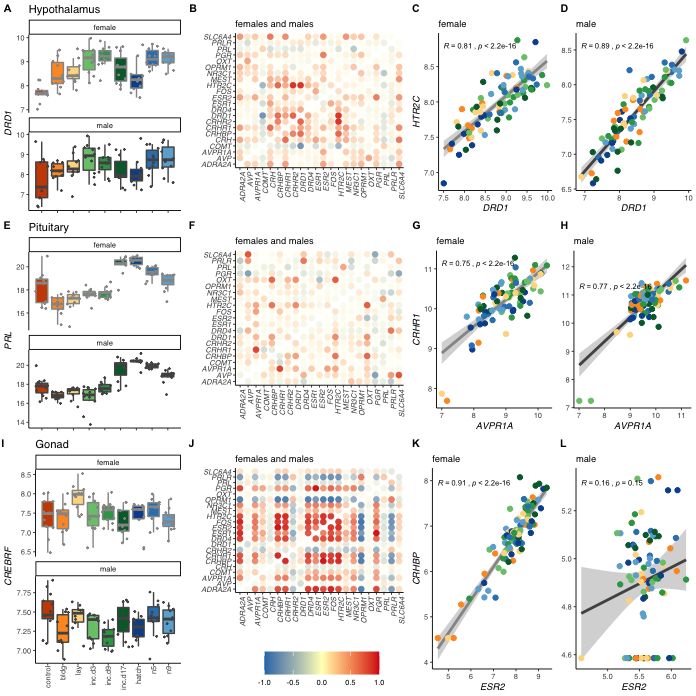
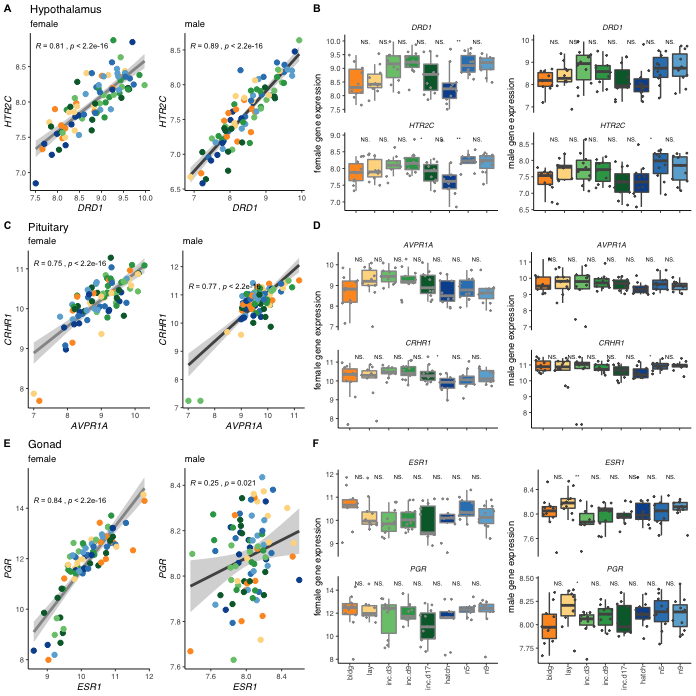
new fig 2

diff --git a/analysis/figure-2.md b/analysis/figure-2.md
@@ -8,6 +8,7 @@ Candidate gene analysis
     library(knitr)
     library(kableExtra)
     library(corrr)
+    library(ggsignif)
 
     source("../R/themes.R")
     source("../R/functions.R")
@@ -1269,33 +1270,41 @@ Candidate Correlations
       p <- candidatevsd %>%
         filter(tissue %in% whichtissue,
               gene %in% whichgenes,
-              sex %in% whichsex) %>%
+              sex %in% whichsex,
+              treatment != "control") %>%
         mutate(treatment = factor(treatment, levels = charlevels)) %>%
-        mutate(treatmentNum = as.numeric(treatment)) %>%
-        ggplot(aes(x = treatmentNum, y = counts)) +
+        ggplot(aes(x = treatment, y = counts)) +
         geom_boxplot(aes(fill = treatment, color = sex), outlier.shape = NA) +
-        #geom_smooth(aes(color = sex)) +
         geom_jitter(size = 0.25, aes(color = sex)) +
-        facet_wrap(~sex, scales = "free_y", nrow = 2) +
-        scale_x_continuous(breaks = c(1,2,3,4,5,6,7,8,9),
-                           labels = charlevels) +
+        facet_wrap(~gene, scales = "free_y", nrow = 2) +
         scale_fill_manual(values = allcolors) +
         scale_color_manual(values = allcolors) +
         theme_B3() + 
         theme(legend.position = "none",
-              axis.title.y = element_text(face = "italic"),
+              strip.text.y = element_text(face = "italic"),
+              strip.text.x = element_text(face = "italic"),
               axis.text.x = element_blank()) +
-        labs(y = whichgenes,
-             x = NULL) 
+        labs(y = paste(whichsex, "gene expression", sep = " "),
+             x = NULL) +
+        geom_signif(comparisons = list(c( "bldg", "lay"),
+                                     c( "lay", "inc.d3"),
+                                     c("inc.d3", "inc.d9"),
+                                     c( "inc.d9", "inc.d17"),
+                                     c( "inc.d17", "hatch"),
+                                     c("hatch", "n5"),
+                                     c( "n5", "n9")),  
+                    map_signif_level=TRUE,
+                    textsize = 1.5, family = 'Helvetica',
+                    vjust = 1.5, size = 0) 
+                    
       return(p)
     }
-
 
     scattercorrelations <- function(df, gene1, gene2, mylinecolor, myxlab, myylab){
       p <- ggplot(df, aes(x = gene1, y = gene2)) +
         labs(subtitle = " ", x = myxlab, y = myylab) + 
         scale_color_manual(values = allcolors) +
-        geom_smooth(method = "lm",  color = mylinecolor) +
+        geom_smooth(method = "glm",  color = mylinecolor) +
         geom_point(aes(color = treatment))  +
         theme_B3() +  
         theme(axis.title = element_text(face = "italic"), 
@@ -1305,31 +1314,48 @@ Candidate Correlations
     }
 
     ## plot sig candidate genes
-    a <- candidateboxplot("hypothalamus", "DRD1", sexlevels) + labs(x = NULL, title = "Hypothalamus") 
+    a <- scattercorrelations(FH, FH$DRD1, FH$HTR2C, "#969696", "DRD1", "HTR2C") + labs(subtitle = "female") + labs(title = "Hypothalamus")
+    e <- scattercorrelations(FP, FP$AVPR1A, FP$CRHR1, "#969696", "AVPR1A", "CRHR1")  + labs(subtitle = "female")+ labs(title = "Pituitary")
+    i <- scattercorrelations(FG, FG$ESR1, FG$PGR, "#969696", "ESR1", "PGR")   + labs(subtitle = "female")+ labs(title = "Gonad")
 
-    g <- candidateboxplot("pituitary", "PRL", sexlevels) + labs(x = NULL, title = "Pituitary")
+    b <- scattercorrelations(MH, MH$DRD1, MH$HTR2C, "#525252", "DRD1", "HTR2C")  + labs(subtitle = "male") + labs(title = "")
+    f <- scattercorrelations(MP, MP$AVPR1A, MP$CRHR1, "#525252", "AVPR1A", "CRHR1")  + labs(subtitle = "male") + labs(title = "")
+    j <- scattercorrelations(MG, MG$ESR1, MG$PGR, "#525252", "ESR1", "PGR")  + labs(subtitle = "male") + labs(title = "")
 
-    m <- candidateboxplot("gonad", "CREBRF", sexlevels) + labs(x = NULL, title = "Gonad") + 
+
+    c <- candidateboxplot("hypothalamus", c("DRD1", "HTR2C"), "female") + labs(x = NULL, title = "") 
+    g <- candidateboxplot("pituitary", c( "AVPR1A", "CRHR1" ), "female") + labs(x = NULL, title = "")
+    k <- candidateboxplot("gonad", c("ESR1", "PGR"), "female") + labs(x = NULL, title = "") + 
+      theme(axis.text.x = element_text(angle = 90, hjust = 1))
+
+    d <- candidateboxplot("hypothalamus",  c("DRD1", "HTR2C"), "male") + labs(x = NULL, title = " ") 
+    h <- candidateboxplot("pituitary", c("AVPR1A", "CRHR1"), "male") + labs(x = NULL, title = " ")
+    l <- candidateboxplot("gonad", c("ESR1", "PGR"), "male") + labs(x = NULL, title = " ") + 
       theme(axis.text.x = element_text(angle = 90, hjust = 1))
 
 
-    c <- plotcorrplot(hyp3, "females and males") + theme(legend.position = "none")  + labs(title = "")
-    i <- plotcorrplot(pit3, "females and males") + theme(legend.position = "none") + labs(title = "")
-    o <- plotcorrplot(gon3, "females and males") + theme(legend.position = "bottom")  + labs(title = "")
-
-
-    e <- scattercorrelations(FH, FH$DRD1, FH$HTR2C, "#969696", "DRD1", "HTR2C") + labs(subtitle = "female")+ labs(title = "")
-    k <- scattercorrelations(FP, FP$AVPR1A, FP$CRHR1, "#969696", "AVPR1A", "CRHR1")  + labs(subtitle = "female")+ labs(title = "")
-    q <- scattercorrelations(FG, FG$ESR2, FG$CRHBP, "#969696", "ESR2", "CRHBP")   + labs(subtitle = "female")+ labs(title = "")
-
-    f <- scattercorrelations(MH, MH$DRD1, MH$HTR2C, "#525252", "DRD1", "HTR2C") + theme(axis.title.y = element_blank()) + labs(subtitle = "male") + labs(title = "")
-    l <- scattercorrelations(MP, MP$AVPR1A, MP$CRHR1, "#525252", "AVPR1A", "CRHR1") + theme(axis.title.y = element_blank()) + labs(subtitle = "male") + labs(title = "")
-    r <- scattercorrelations(MG, MG$ESR2, MG$CRHBP, "#525252", "ESR2", "CRHBP")  + theme(axis.title.y = element_blank()) + labs(subtitle = "male") + labs(title = "")
-
-    plot_grid(a,c,e,f,g,i,k,l,m,o,q,r, nrow = 3, rel_widths = c(1,1.2,0.8,0.75), rel_heights = c(1,1,1.2),
-              labels = "AUTO", label_size =  8)
+    plot_grid(a,b,c,d,e,f,g,h,i,j,k,l, nrow = 3, 
+              rel_widths = c(0.8,0.8,1,1), rel_heights = c(1,1,1.2),
+              labels = c("A", " ", "B", "",
+                         "C", " ", "D", "",
+                         "E", " ", "F", ""), label_size =  8)
 
 ![](../figures/fig2-1.png)
+
+suplement correlations
+----------------------
+
+    a <- plotcorrplot(hyp1, "females") + theme(legend.position = "none", axis.text.x = element_blank())  + labs(title = "")
+    c <- plotcorrplot(pit1, "females") + theme(legend.position = "none", axis.text.x = element_blank()) + labs(title = "")
+    e <- plotcorrplot(gon1, "females") + theme(legend.position = "bottom")  + labs(title = "")
+
+    b <- plotcorrplot(hyp2, "males") + theme(legend.position = "none", axis.text.x = element_blank())  + labs(title = "")
+    d <- plotcorrplot(pit2, "males") + theme(legend.position = "none", axis.text.x = element_blank()) + labs(title = "")
+    f <- plotcorrplot(gon2, "males") + theme(legend.position = "bottom")  + labs(title = "")
+
+    plot_grid(a,b,c,d,e,f, nrow = 3, rel_heights = c(1,1,1.5))
+
+![](../figures/supplfig2-1.png)
 
     #write.csv(candidatevsd, "../../musicalgenes/data/candidatecounts.csv")
     #write.csv(candidatevsd, "../results/candidatecounts.csv")
